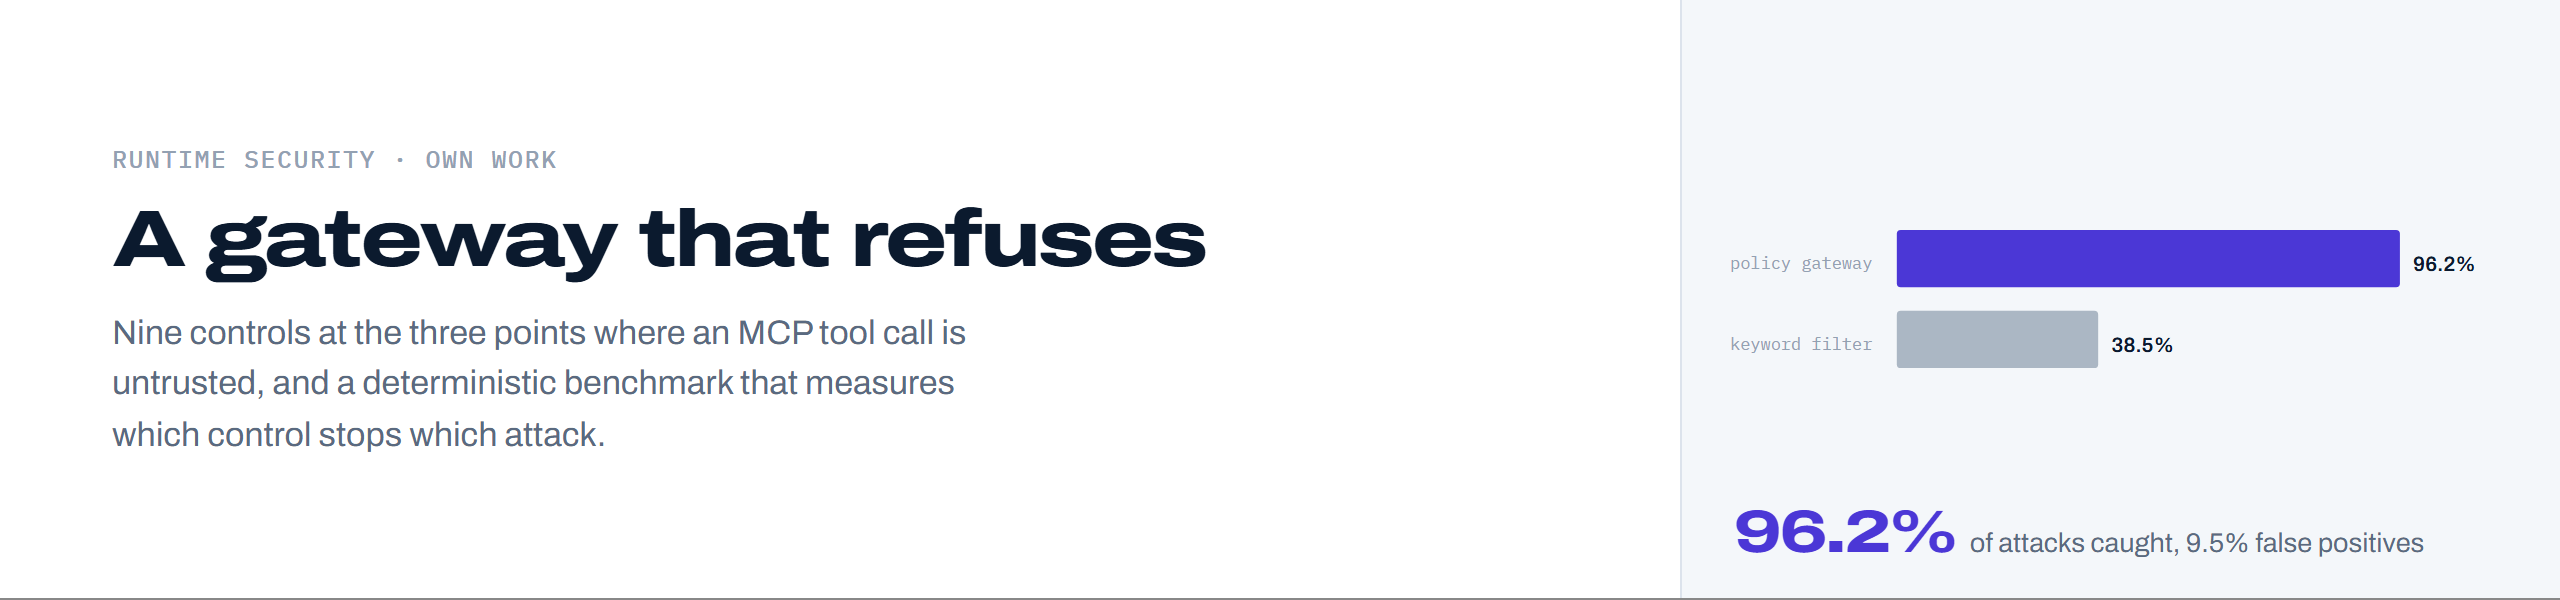
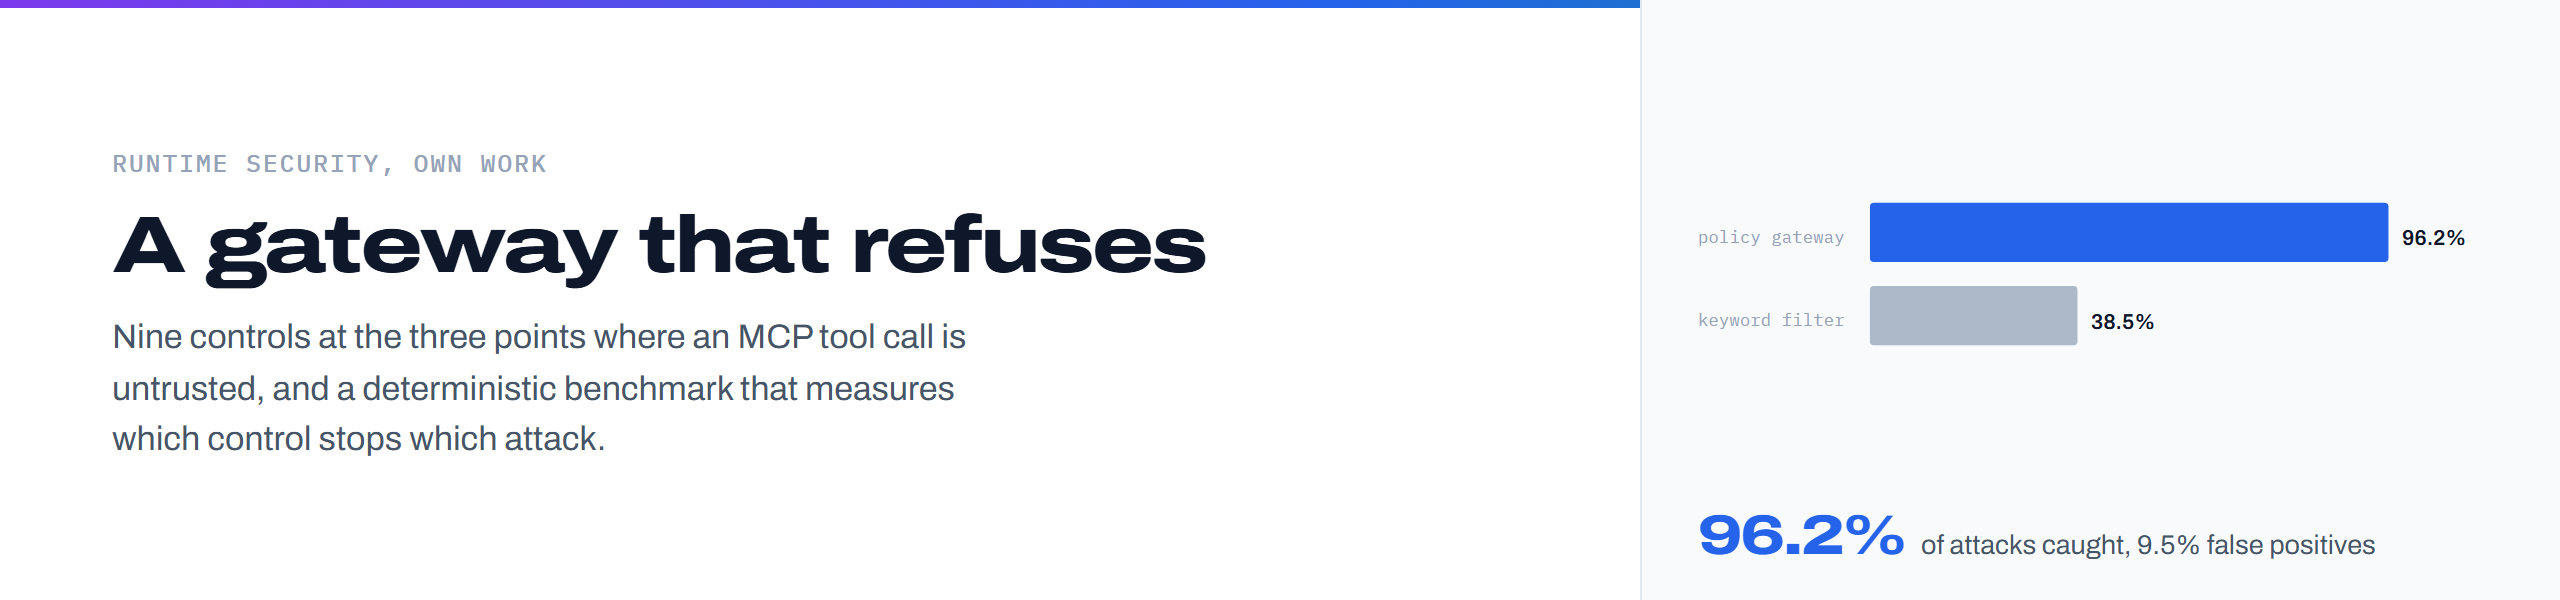
Replace machine-written punctuation and re-render the header image
Em dashes, middle dots, arrows, the multiplication sign and the superscript two
go, for the words or the plain characters that mean the same thing. The rule is
the one the CV, the GitHub profile and the website are all held to, enforced by
check_characters.py, so the four surfaces cannot drift apart.

The header image is re-rendered in the muted palette the profile moved to.
No claim, number or result changed.

diff --git a/README.md b/README.md
@@ -1,6 +1,6 @@
 <picture>
   <source media="(prefers-color-scheme: dark)" srcset="docs/assets/header-dark.png">
-  <img alt="A gateway that refuses — nine controls at the three points where an MCP tool call is untrusted, with a bar chart showing the policy gateway catching 96.2% of attacks against a keyword filter's 38.5%" src="docs/assets/header-light.png">
+  <img alt="A gateway that refuses, nine controls at the three points where an MCP tool call is untrusted, with a bar chart showing the policy gateway catching 96.2% of attacks against a keyword filter's 38.5%" src="docs/assets/header-light.png">
 </picture>
 
 # mcp-policy-gateway
@@ -37,7 +37,7 @@ comparing only against *nothing* would flatter the result. It catches a third of
 attacks and refuses one in three legitimate calls, which is the profile of a control that
 gets switched off in week two.
 
-Scored separately against three external corpora nobody here wrote — details in
+Scored separately against three external corpora nobody here wrote, details in
 [Scored against a corpus I did not write](#scored-against-a-corpus-i-did-not-write).
 
 ## Run it
@@ -218,16 +218,16 @@ had never seen this project.
 The first number is the useful one. `mandatory_tool_precondition` bounded the gap between
 "before" and the obligation at 40 characters, which fits how *I* write a case and not how
 anyone else does; 72 of the 103 missed declarations carrying that pair exceeded it. A second
-attack class — a declaration claiming priority over the user, then coercing an argument
-value — had no rule at all. Neither could have been found on 47 cases of mine.
+attack class, a declaration claiming priority over the user, then coercing an argument
+value, had no rule at all. Neither could have been found on 47 cases of mine.
 
 The internal numbers did not move through either change, including the benign cases that
 caused that rule to be narrowed in the first place.
 
 The benign half is external too, because recall without a false-positive rate is the shape
 of result this project criticises the keyword filter for. Scored against **660 real tool
-declarations** — harvested from the official MCP reference servers and from MCP-Guard's
-benign set — the gateway blocks **0** and touches **0**, interval [0.0%, 0.6%].
+declarations**, harvested from the official MCP reference servers and from MCP-Guard's
+benign set, the gateway blocks **0** and touches **0**, interval [0.0%, 0.6%].
 
 That includes the `fetch` server's own description, which tells the model it was "advised to
 refuse and tell the user this" and that it may now do otherwise. Official prose with the
@@ -237,13 +237,13 @@ A second external source, [MSB](https://github.com/dongsenzhang/MSB) (ICLR 2026)
 the stage none of the above does: fifteen attacks arriving inside **tool results**, which is
 the case a static scanner structurally cannot cover. The gateway caught **0 of 15**. Three
 wrappers failed for three reasons, the first being that `mandatory_tool_precondition` knew
-`call`, `invoke`, `execute` and `run` but not **`use`** — the most ordinary word for invoking
+`call`, `invoke`, `execute` and `run` but not **`use`**, the most ordinary word for invoking
 a tool. After fixes taken from threat rules ATR-2026-01302 and ATR-2026-01751 it catches
-15/15, and MCPTox rose 49.5% → 55.1% at no false-positive cost. That transfer, from a fix
+15/15, and MCPTox rose 49.5% to 55.1% at no false-positive cost. That transfer, from a fix
 found on one corpus to a corpus by different authors, is the least circular evidence here.
 
 **55.1% should not be read as generalisation.** A large part of the gain is one rule whose
-trigger phrase appears in 0% of their first two generators and 35% of the third — one
+trigger phrase appears in 0% of their first two generators and 35% of the third, one
 generator's opening sentence, not a property of tool poisoning. 245 of 485 are still missed
 and the three generators disagree at 29.9%, 45.4% and 59.6%. These rates also are not
 comparable to the ones in their paper: MCPTox scores whether a *model complies*, this scores
@@ -252,7 +252,7 @@ whether a *control fires*.
 The changes that produced it came from reading published work rather than inventing rules:
 two detection rules transcribed from [MCP-Guard](https://github.com/GenTelLab/MCP-Guard),
 the localisation gap closed from threat rule ATR-2026-00148, and `argument_coercion`
-rebuilt as weighted scoring against a threshold after MCP-Guard's `shadow_rules.json` —
+rebuilt as weighted scoring against a threshold after MCP-Guard's `shadow_rules.json`,
 which alone was worth ten points of recall at no false-positive cost. Both decision
 conventions are now reported, following [CASCADE](https://arxiv.org/abs/2604.17125).
 
@@ -347,7 +347,7 @@ python scripts/figures/generate_figures.py   # docs/figures/*.png
 > `generated_from_commit: b07c7e4`, which is 18 commits behind HEAD, and
 > `assets/summary.json` still carries a median decision time of 214.9 µs from that run.
 > The current figure is 249 µs, which is what the table above reports. Run `make evidence`
-> to rebuild the evidence tree from a live run. The rate columns are unaffected — those are
+> to rebuild the evidence tree from a live run. The rate columns are unaffected, those are
 > pinned by `tests/test_corpus_and_benchmark.py` against a fresh benchmark, not against
 > `assets/`.
 
